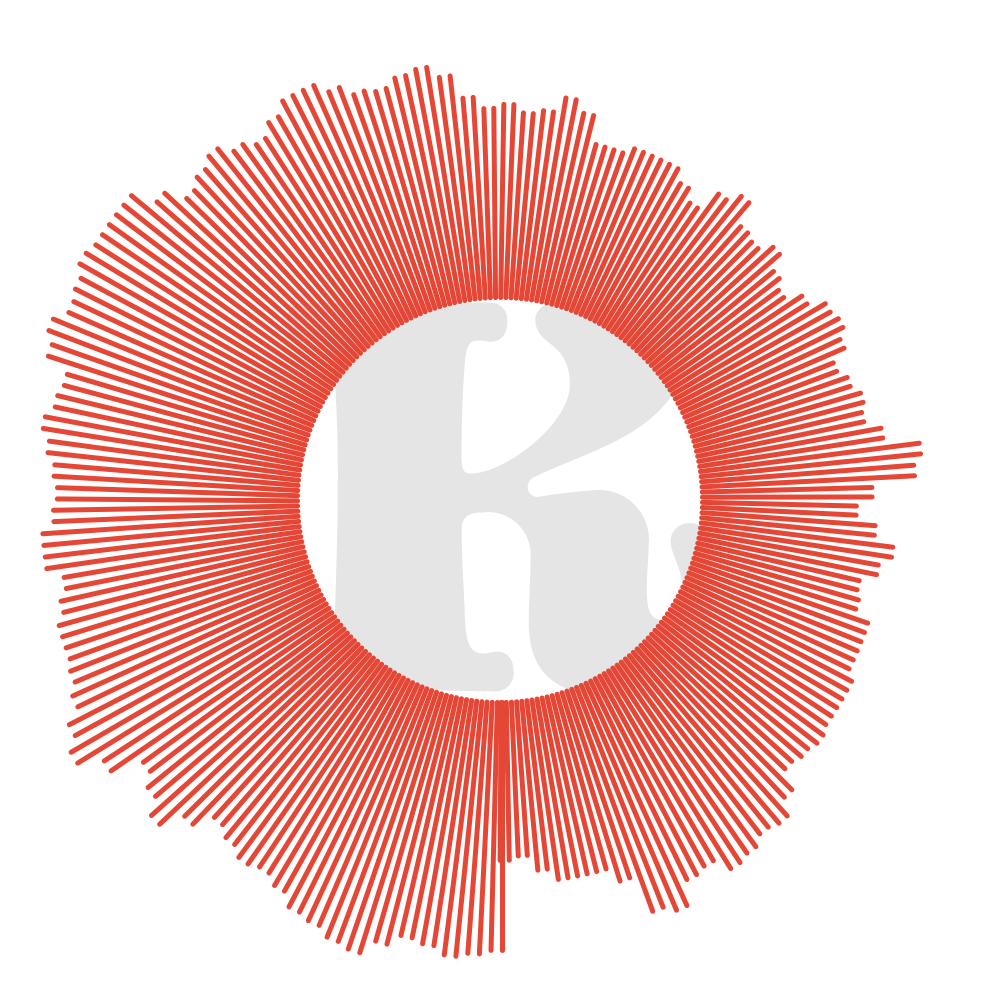
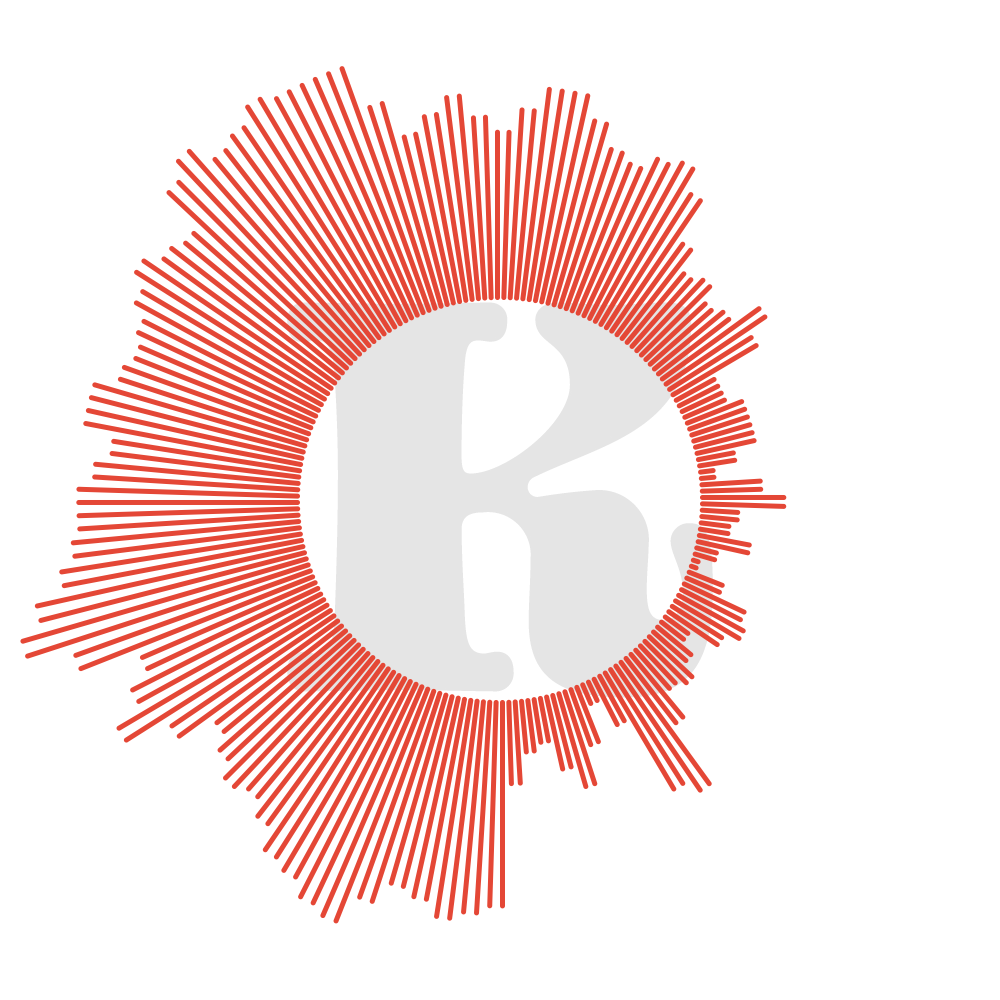
Fix cirlce generator
WIP Spacing for circles

Changed region(s): [[0.031, 0.062, 0.93, 0.961]]

diff --git a/circle.go b/circle.go
@@ -1,14 +1,17 @@
 package visual
 
-import "math"
+import (
+	"math"
+)
 
 // CircleWaves will generate a visual representation of the audio from samples in a circle
 func (c *Canvas) CircleWaves(r, g, b int, padding float64) *Canvas {
 	ws := float64(c.sampleWidth)
-	s := float64(c.spacing)
+	// s := float64(c.spacing)
+	l := float64(len(c.samples))
 
 	min, max := minMax(c.samples)
-	rad := (360 / (float64(len(c.samples)) * ws * s)) / (math.Pi / 4)
+	theta := ((math.Pi * 2) / l)
 
 	c.dc.SetRGB255(r, g, b)
 	for i, sample := range c.samples {
@@ -22,14 +25,10 @@ func (c *Canvas) CircleWaves(r, g, b int, padding float64) *Canvas {
 
 		c.dc.Push()
 		c.dc.Translate(float64(c.dc.Width())/2, float64(c.height)/2)
-		c.dc.Rotate(rad * float64(i))
+		c.dc.Rotate(theta * float64(i))
 		c.dc.DrawRoundedRectangle(0, padding, ws, hi, ws/2)
 		c.dc.Fill()
 		c.dc.Pop()
-
-		if rad*float64(i) >= math.Pi*2 {
-			break
-		}
 	}
 
 	return c

diff --git a/canvas_test.go b/canvas_test.go
@@ -36,7 +36,7 @@ func TestWaves(t *testing.T) {
 func TestCircleWaves(t *testing.T) {
 	wavPath := "./example/sample.wav"
 	brandPath := "./example/kiosk-branding.png"
-	nSamples := 360
+	nSamples := 200
 
 	samples, err := visual.ReadPath(wavPath, nSamples)
 	if err != nil {
@@ -47,7 +47,7 @@ func TestCircleWaves(t *testing.T) {
 		t.Fatalf("expected samples length to be %d, got: %d", nSamples, len(samples))
 	}
 
-	canvas := visual.Blank(samples, 10, 5, 1000, true)
+	canvas := visual.Blank(samples, 50, 5, 1000, true)
 
 	if _, err := canvas.BrandingPath(brandPath, 0.9, false); err != nil {
 		t.Fatalf("expected error to be nil, got: %s", err.Error())

diff --git a/README.md b/README.md
@@ -1,6 +1,6 @@
 # visual-audio
 
-An audio visualizer to - probably - be used at [kiosk.social](https://kiosk.social) for audio stuff
+An audio visualizer to - hopefully - be used at [kiosk.social](https://kiosk.social) for audio stuff
 
 ![sample](test-waves.png)
 ![sample](test-circle.png)
